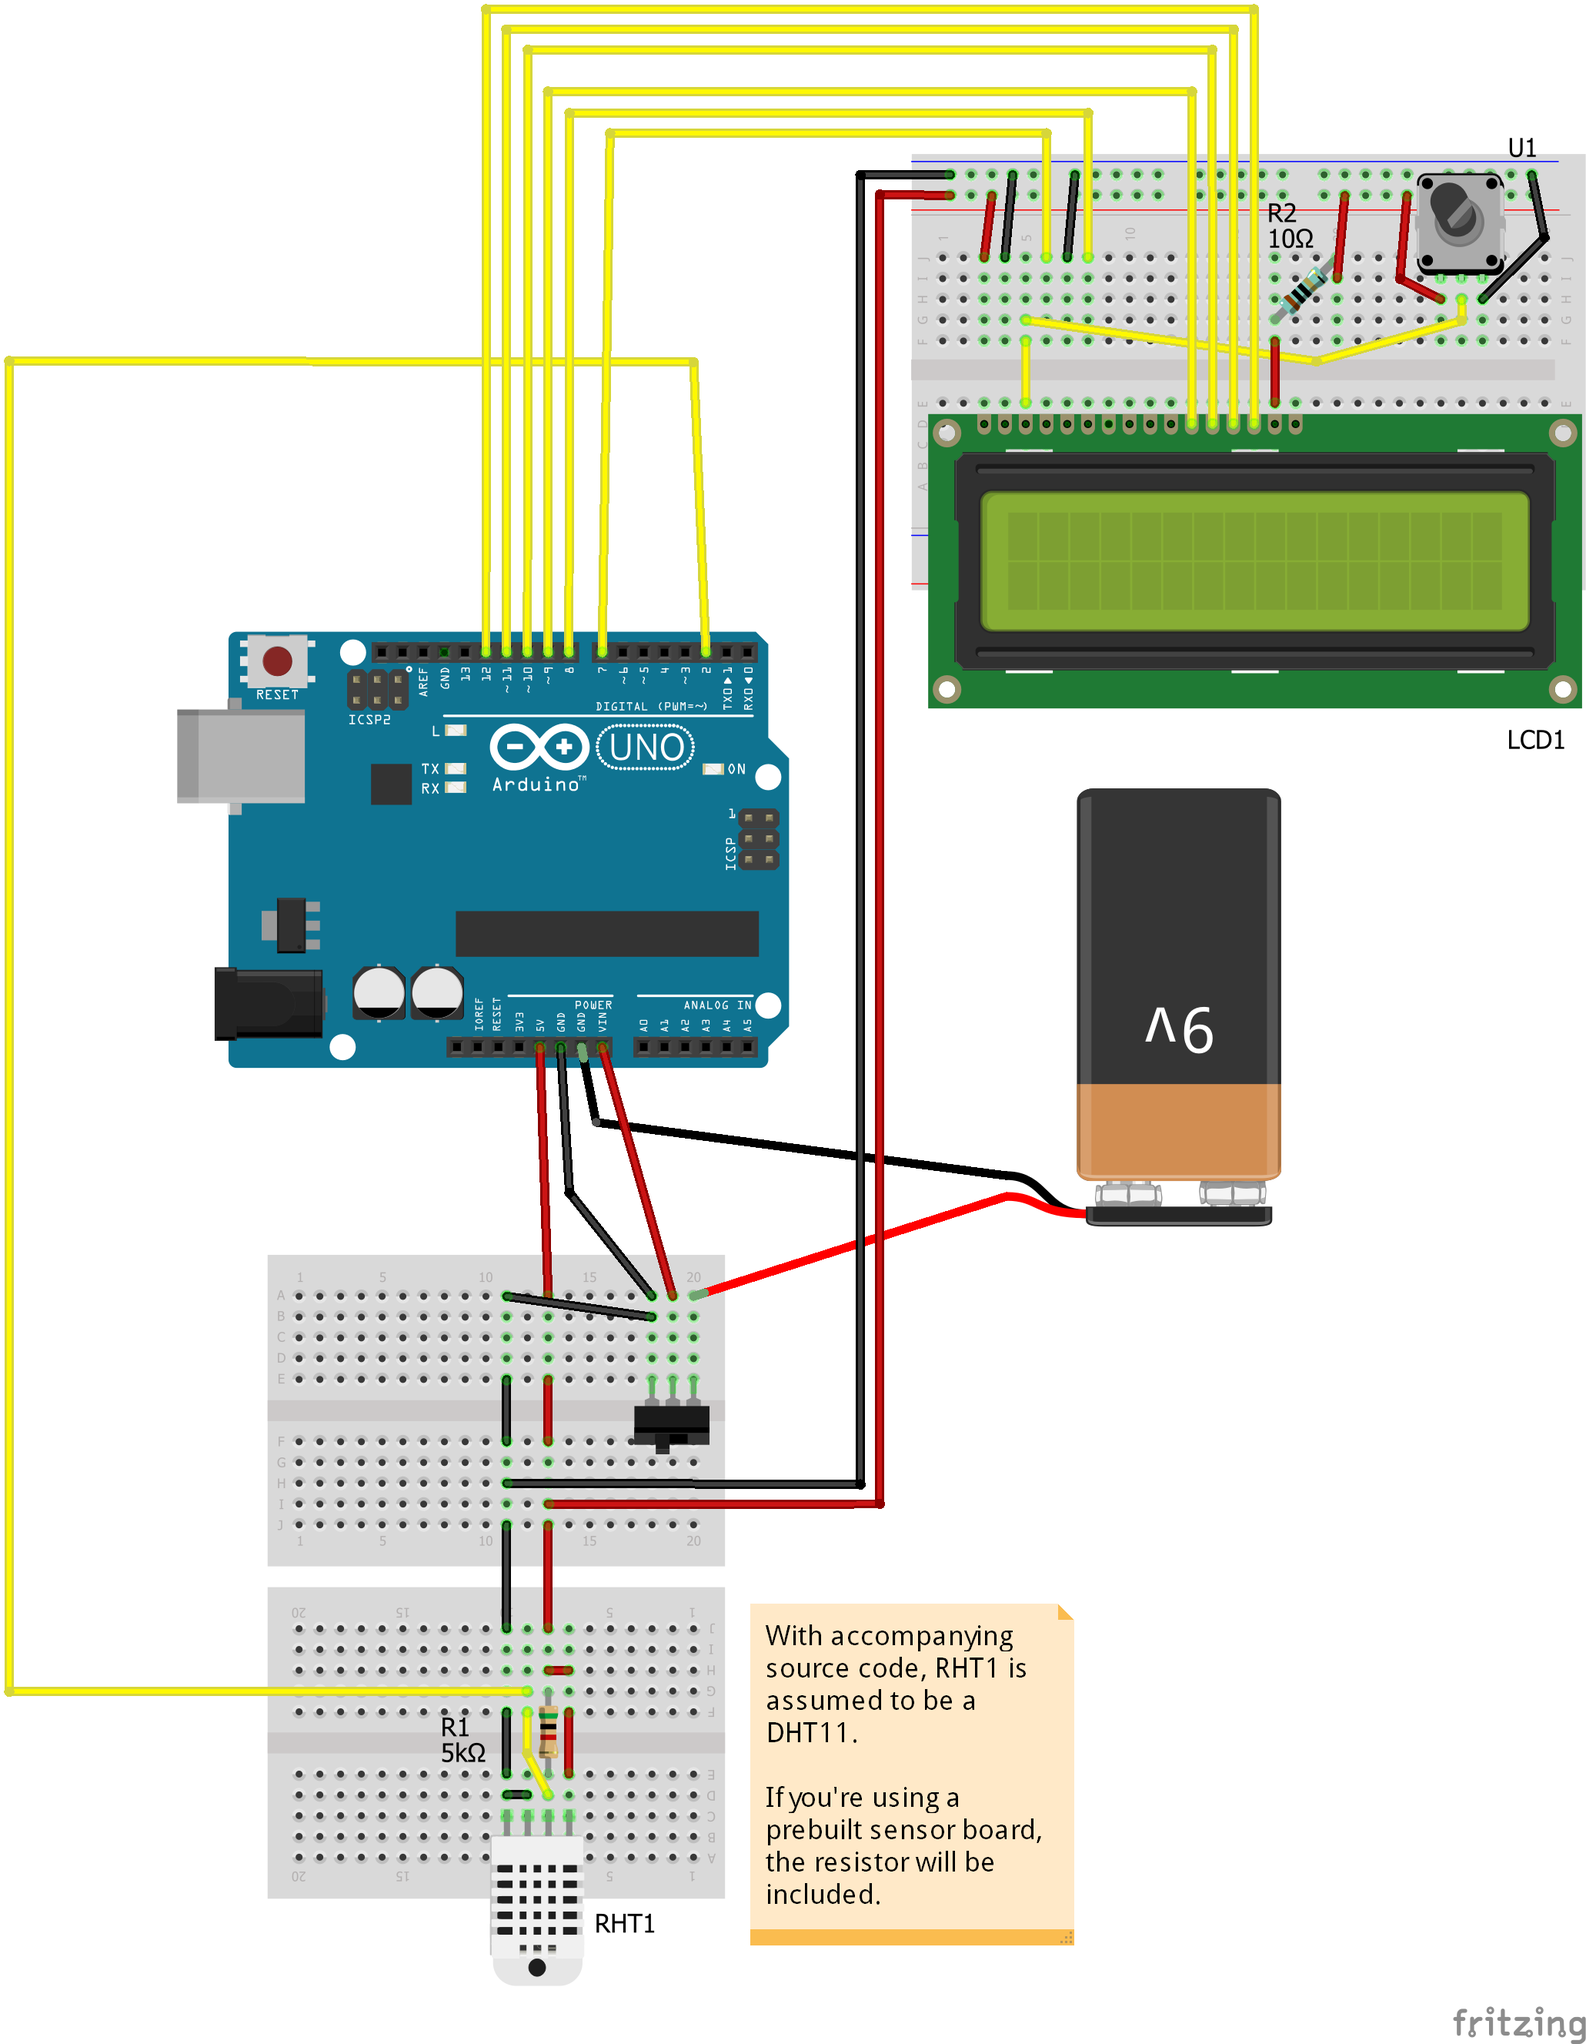
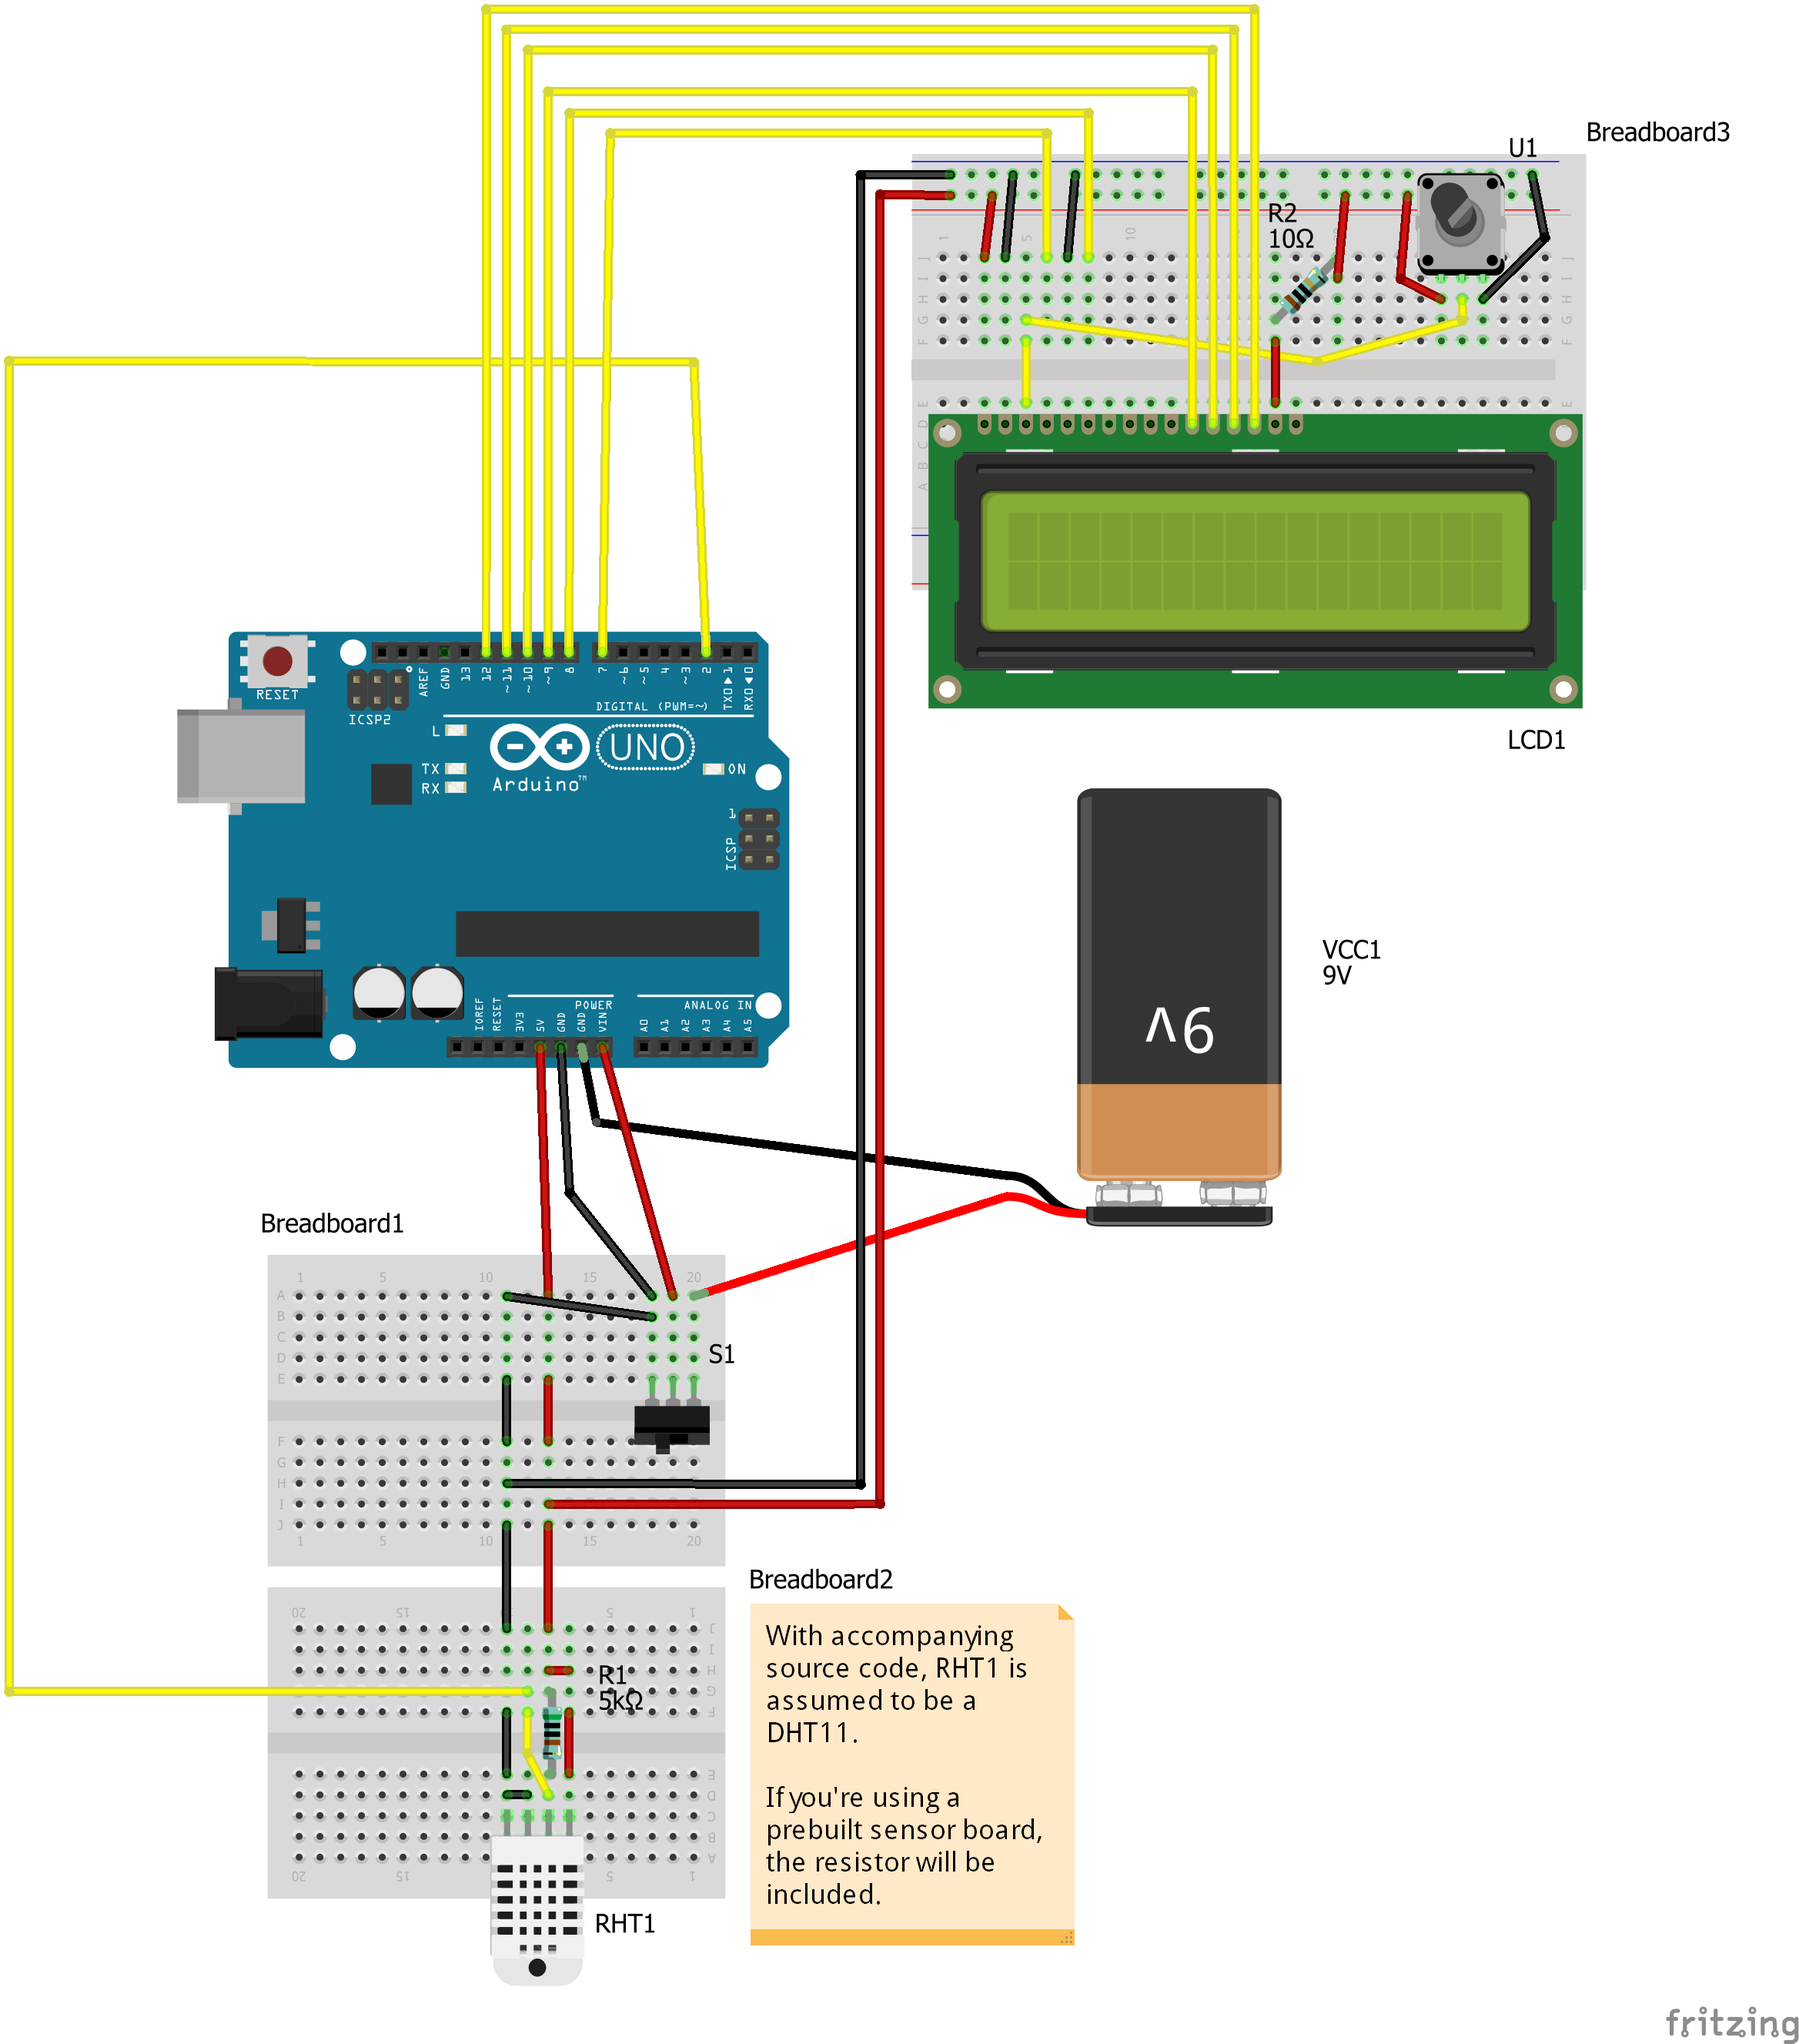
Added some labels to the breadboard view. Added Fritzing-generated Bill of Materials.

Changed region(s): [[0.0932, 0.0, 1.0, 0.9883], [0.0, 0.1853, 0.0311, 0.803], [0.9005, 0.9883, 0.9937, 1.0]]

diff --git a/Temp and Humidity Monitor_bom.html b/Temp and Humidity Monitor_bom.html
@@ -1,0 +1,136 @@
+<!DOCTYPE html PUBLIC "-//W3C//DTD XHTML 1.0 Transitional//EN" "http://www.w3.org/TR/xhtml1/DTD/xhtml1-transitional.dtd">
+<html xmlns="http://www.w3.org/1999/xhtml">
+<head>
+<meta http-equiv="Content-Type" content="text/html; charset=utf-8" />
+<title>Fritzing Bill of Materials</title>
+<style type="text/css">
+.meta {
+	font-size: small;
+	margin: 0.4em 0;
+}
+table {
+	border-collapse: collapse;
+}
+th {
+	font-weight: bold;
+	text-align: left;
+	border-bottom: 1px solid black;
+	padding: 0.1em 1.5em 0.2em 0.1em;
+}
+td {
+	border-bottom: 1px solid #CCC;
+	padding: 0.5em 1.5em 0.5em 0.1em;
+}
+.props {
+	font-size: smaller;
+}
+</style>
+</head>
+
+<body>
+<h1>Bill of Materials: Temp and Humidity Monitor.fzz</h1>
+<p class="meta">C:/Users/David/Documents/Fritzing/parts/Temp and Humidity Monitor.fzz</p>
+<p class="meta">Wednesday, February 22 2017, 04:39:06</p>
+
+<h2>Assembly List</h2>
+<table>
+
+  <thead>
+   <tr>
+    <th>Label</th>
+    <th>Part Type</th>
+    <th>Properties</th>
+    </tr>
+  </thead>
+  <tbody>
+  <tr>
+    <td>LCD1</td>
+    <td>LCD screen</td>
+    <td class="props">pins 16; type Character</td>
+</tr><tr>
+    <td>Part1</td>
+    <td>Arduino Uno (Rev3)</td>
+    <td class="props">type Arduino UNO (Rev3)</td>
+</tr><tr>
+    <td>Part2</td>
+    <td>Schematic Frame</td>
+    <td class="props">sheet 1/1; descr Displays temperature and humidity on an onboard LCD display.; rev 1.0; filename Temp and Humidity Monitor.fzz; date 1487753832; project Temperature and Humidity Monitor</td>
+</tr><tr>
+    <td>R1</td>
+    <td>5kΩ Resistor</td>
+    <td class="props">resistance 5kΩ; pin spacing 400 mil; package THT; bands 4; tolerance ±5%</td>
+</tr><tr>
+    <td>R2</td>
+    <td>10Ω Resistor</td>
+    <td class="props">resistance 10Ω; pin spacing 400 mil; package THT; bands 5; tolerance ±5%</td>
+</tr><tr>
+    <td>RHT1</td>
+    <td>Humidity and Temperature Sensor RHT03</td>
+    <td class="props">power supply 3.3-5.5V DC; sensing element Polymer humidity capacitor; output signal Digital Signal</td>
+</tr><tr>
+    <td>S1</td>
+    <td>Toggle Switch</td>
+    <td class="props">switching circuit SPDT; package THT</td>
+</tr><tr>
+    <td>U1</td>
+    <td>POT</td>
+    <td class="props">package alps_pot</td>
+</tr><tr>
+    <td>VCC1</td>
+    <td>Battery block 9V</td>
+    <td class="props">voltage 9V</td>
+</tr>
+  </tbody>
+</table>
+<h2>Shopping List</h2>
+<table>
+  <thead>
+	<tr>
+    <th>Amount</th>
+    <th>Part Type</th>
+    <th>Properties</th>
+    </tr>
+  </thead>
+  <tbody>
+<tr>
+    <td>1</td>
+    <td>LCD screen</td>
+    <td class="props">pins 16; type Character</td>
+</tr><tr>
+    <td>1</td>
+    <td>Arduino Uno (Rev3)</td>
+    <td class="props">type Arduino UNO (Rev3)</td>
+</tr><tr>
+    <td>1</td>
+    <td>Schematic Frame</td>
+    <td class="props">sheet 1/1; descr Displays temperature and humidity on an onboard LCD display.; rev 1.0; filename Temp and Humidity Monitor.fzz; date 1487753832; project Temperature and Humidity Monitor</td>
+</tr><tr>
+    <td>1</td>
+    <td>5kΩ Resistor</td>
+    <td class="props">resistance 5kΩ; pin spacing 400 mil; package THT; bands 4; tolerance ±5%</td>
+</tr><tr>
+    <td>1</td>
+    <td>10Ω Resistor</td>
+    <td class="props">resistance 10Ω; pin spacing 400 mil; package THT; bands 5; tolerance ±5%</td>
+</tr><tr>
+    <td>1</td>
+    <td>Humidity and Temperature Sensor RHT03</td>
+    <td class="props">power supply 3.3-5.5V DC; sensing element Polymer humidity capacitor; output signal Digital Signal</td>
+</tr><tr>
+    <td>1</td>
+    <td>Toggle Switch</td>
+    <td class="props">switching circuit SPDT; package THT</td>
+</tr><tr>
+    <td>1</td>
+    <td>POT</td>
+    <td class="props">package alps_pot</td>
+</tr><tr>
+    <td>1</td>
+    <td>Battery block 9V</td>
+    <td class="props">voltage 9V</td>
+</tr>
+  </tbody>
+</table>
+<p class="meta"><br/>Exported with Fritzing 0.9.3- http://fritzing.org</p>
+</body>
+</html>
